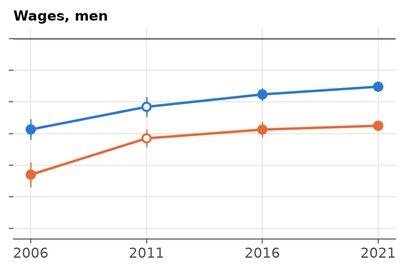
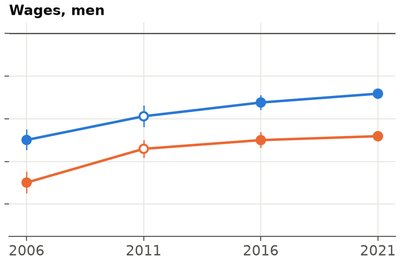
Show the Indigenous income gap in per cent, with the plainer text and updated charts

diff --git a/indigenous-income-gap.html b/indigenous-income-gap.html
@@ -4,16 +4,16 @@
   <meta charset="UTF-8" />
   <meta name="viewport" content="width=device-width, initial-scale=1.0" />
   <meta http-equiv="Content-Security-Policy" content="default-src 'self'; script-src 'self'; style-src 'self'; img-src 'self'; font-src 'self'; connect-src 'none'; object-src 'none'; base-uri 'self'; form-action 'none'" />
-  <title>The Indigenous income gap in Canada across four censuses, and what can be said about it | Ata Malfuzi</title>
-  <meta name="description" content="How the income and wage gap between Indigenous and non-Indigenous Canadians changed from 2006 to 2021. It describes a gap and doesn't identify causes. Python." />
-  <meta property="og:title" content="The Indigenous income gap in Canada across four censuses, and what can be said about it | Ata Malfuzi" />
-  <meta property="og:description" content="How the income and wage gap between Indigenous and non-Indigenous Canadians changed from 2006 to 2021. It describes a gap and doesn't identify causes. Python." />
+  <title>The Indigenous income gap in Canada, 2006 to 2021 | Ata Malfuzi</title>
+  <meta name="description" content="How much lower the incomes and wages of Indigenous people in Canada are than those of other Canadians with the same measured characteristics, and how that changed from 2006 to 2021. It describes a gap and doesn't identify causes. Python." />
+  <meta property="og:title" content="The Indigenous income gap in Canada, 2006 to 2021 | Ata Malfuzi" />
+  <meta property="og:description" content="How much lower the incomes and wages of Indigenous people in Canada are than those of other Canadians with the same measured characteristics, and how that changed from 2006 to 2021. It describes a gap and doesn't identify causes. Python." />
   <meta property="og:type" content="website" />
   <meta property="og:url" content="https://atamalfuzi.github.io/indigenous-income-gap.html" />
   <meta property="og:image" content="https://atamalfuzi.github.io/img/og-indigenous.png" />
   <meta property="og:image:width" content="1200" />
   <meta property="og:image:height" content="630" />
-  <meta property="og:image:alt" content="Four line charts of raw and adjusted gaps in log income and wages for women and men at 2006, 2011, 2016 and 2021, all below zero and mostly narrowing. The chart notes that the people reporting an identity changed across these years." />
+  <meta property="og:image:alt" content="Four line charts of how much lower Indigenous people's total income and wages are, in per cent, for women and men at 2006, 2011, 2016 and 2021. All are below zero and most narrow over time. The chart notes that the people reporting an identity changed across these years." />
   <meta name="twitter:card" content="summary_large_image" />
   <link rel="canonical" href="https://atamalfuzi.github.io/indigenous-income-gap.html" />
   <link rel="icon" href="favicon.svg" type="image/svg+xml" />
@@ -62,16 +62,16 @@
 <article class="project">
   <div class="page-top">
     <a class="back" href="projects.html">Back to portfolio</a>
-    <h1>The Indigenous income gap in Canada across four censuses, and what can be said about it</h1>
-    <p class="lead">I compare the income and wages of Indigenous and non-Indigenous Canadians with the same age group, education, official languages, marital status, area and household size, in four files: the 2006 Census, the 2011 National Household Survey, and the 2016 and 2021 Censuses. The sample is Canadian citizens by birth aged 25 to 64. It started as an assignment in a graduate applied econometrics course at Simon Fraser University, which applied the approach of Pendakur and Pendakur (2011) to 2006.</p>
-    <p class="notes">Personal project: my own analysis of publicly available data. It is not associated with my work for any current or past employer and does not represent their views. This describes a gap and what it is correlated with in these files. It does not identify causes. Nothing here measures the abilities, habits or culture of any group.</p>
+    <h1>The Indigenous income gap in Canada, 2006 to 2021</h1>
+    <p class="lead">How much lower are the incomes and wages of Indigenous people in Canada than those of other Canadians with the same age, education, language, marital status, area and household size? And how did that change? I look at four rounds of Statistics Canada's public census microdata: 2006, 2011, 2016 and 2021, for Canadian citizens by birth aged 25 to 64. The project started as an assignment in a graduate applied econometrics course at Simon Fraser University, which applied the method of Pendakur and Pendakur (2011) to the 2006 Census. I reproduce that work in Python first, then carry it forward.</p>
+    <p class="notes">Personal project: my own analysis of publicly available data. It is not associated with my work for any current or past employer and does not represent their views. The results describe a gap and what goes with it in these files. They don't show what causes it. Nothing here measures the abilities, habits or culture of any group.</p>
     <div class="links-row"><a href="https://github.com/atamalfuzi/canada_indigenous_income_gap" target="_blank">Code on GitHub</a><a href="https://github.com/atamalfuzi/canada_indigenous_income_gap/tree/main/output" target="_blank">All results (CSV)</a></div>
   </div>
 
   <section class="section" id="limit">
-    <h2>The main limit</h2>
-    <p><strong>The people counted as Indigenous changed between these files, so this series is not one group followed over time.</strong> Some people report an Indigenous identity in one census and not in the next. Laws on registered status changed, and so did the question wording and which communities were enumerated. A linked Statistics Canada study found that 24.6% of the 2016 Aboriginal identity population, in its terms, had reported as non-Aboriginal in 2011 (O'Donnell and LaPointe 2019). These files can't link people across years. So a narrower gap could reflect changes in income, changes in who reports, or both. <a href="#identity">Section 5</a> measures the net change.</p>
-    <p>The left-over part of the gap is not a measure of any one cause. It can include characteristics the files don't measure, time worked, location within the broad areas used here, tax treatment, measurement differences and discrimination. These data can't separate them.</p>
+    <h2>The most important caution</h2>
+    <p><strong>The people counted as Indigenous are not the same from one census to the next.</strong> Some people report an Indigenous identity in one census and not in the next, in both directions. The laws on who can be registered changed, and so did the questions and which communities took part. A Statistics Canada study that linked people across censuses found that about one in four people reporting an Aboriginal identity in 2016 had not reported one in 2011 (O'Donnell and LaPointe 2019). The public files can't follow people, so a smaller gap could come from changes in income, from changes in who is counted, or both. <a href="#identity">Section 6</a> measures how big the change is and how much it could matter.</p>
+    <p>The part of the gap that measured characteristics don't account for is not a measure of any one cause. It can include things these files don't measure, such as hours worked, the kind of job, where exactly someone lives, tax treatment, differences in how income is recorded, and discrimination. These data can't tell them apart.</p>
   </section>
 
   <section class="section">
@@ -79,85 +79,135 @@
     <table class="glance">
       <thead><tr><th scope="col">Question</th><th scope="col">Methods</th><th scope="col">Answer</th></tr></thead>
       <tbody>
-        <tr><td>Does the 2006 work reproduce?</td><td data-label="Methods">The assignment's regressions, OLS with robust errors</td><td data-label="Answer">Closely. All 32 coefficients are within 0.35 of a standard error, but the sample differs by 0.7% for a reason I could not trace.</td></tr>
-        <tr><td><a href="#change">How did the gap change?</a></td><td data-label="Methods">Weighted OLS by sex and year, replicate-weight errors</td><td data-label="Answer">For men the adjusted wage gap went from −0.287 to −0.152 log points. For women it went from −0.107 to −0.043, most of it in 2021.</td></tr>
-        <tr><td><a href="#observed">What do observed characteristics account for?</a></td><td data-label="Methods">Oaxaca-Blinder decomposition</td><td data-label="Answer">Roughly a third to a half of the gap among men and roughly 60% or more among women. Education is the largest part.</td></tr>
-        <tr><td><a href="#groups">Who does the average cover?</a></td><td data-label="Methods">Indicators by group</td><td data-label="Answer">Gaps differ widely. They are largest among registered men who are band members.</td></tr>
-        <tr><td><a href="#pandemic">How much is 2021 a pandemic result?</a></td><td data-label="Methods">Total income less pandemic benefits</td><td data-label="Answer">For men, 0.085 of the 0.126 narrowing in total income from 2016 to 2021 goes away when benefits are taken out.</td></tr>
+        <tr><td><a href="#change">How did the gap change?</a></td><td data-label="Methods">Weighted regressions by sex and year</td><td data-label="Answer">It narrowed. With the same characteristics, men's wages went from about 25% lower in 2006 to 14% lower in 2021, and women's from about 10% to 4% lower.</td></tr>
+        <tr><td><a href="#observed">How much do measured characteristics account for?</a></td><td data-label="Methods">Oaxaca-Blinder decomposition</td><td data-label="Answer">Roughly a third to a half of the wage gap among men, and roughly 60% or more among women. Education is the largest part.</td></tr>
+        <tr><td><a href="#groups">Who does the average cover?</a></td><td data-label="Methods">Gaps by group</td><td data-label="Answer">Very different groups. The largest gaps are among registered men who are band members: 39% lower wages in 2006 and 26% in 2021.</td></tr>
+        <tr><td><a href="#pandemic">How much is 2021 a pandemic result?</a></td><td data-label="Methods">Total income less pandemic benefits</td><td data-label="Answer">A good part. Taking benefits out removes about two thirds of the 2016 to 2021 narrowing in men's total income.</td></tr>
+        <tr><td><a href="#reproduce">Does the 2006 assignment reproduce?</a></td><td data-label="Methods">The same regressions in Python</td><td data-label="Answer">Closely, not exactly. All 32 estimates are within 0.35 standard errors, but the sample is 0.7% larger, for a reason I could not trace.</td></tr>
         <tr><td><a href="#identity">Are these the same people over time?</a></td><td data-label="Methods">Counts of the same birth years, and a what-if</td><td data-label="Answer">No. The same birth years count 28% more Indigenous people in 2021 than in 2006, while the comparison group shrinks 4%.</td></tr>
       </tbody>
     </table>
-    <p class="notes">Gaps are in log points, the Indigenous group less the comparison group, so negative means lower. A gap of −0.15 is about 14% lower. The Indigenous group has an Indigenous identity or registered status. Income is from the year before each census.</p>
+    <p class="notes">The Indigenous group is everyone who reported an Indigenous identity (First Nations, Métis or Inuit) or registered status under the Indian Act. The comparison group is everyone else, except people who reported only Indigenous ancestry, who are set aside. Total income is income from all sources, including government transfers; wages are wages and salaries from employment. A gap is how much lower the Indigenous group's typical income is, in per cent. "All people" compares the two groups as they are, and "same characteristics" compares people of the same age group, highest qualification, official language, marital status, area and household size. Each estimate has a margin of error of about 1 to 3 percentage points either way.</p>
   </section>
 
   <section class="section" id="change">
-    <h2>1. How the gap changed</h2>
-    <ul class="tags"><li>Census public use microdata</li><li>Weighted OLS</li><li>Replicate-weight errors</li><li>2006, 2011, 2016, 2021</li></ul>
+    <h2>1. The gap narrowed</h2>
+    <ul class="tags"><li>Census public use microdata</li><li>Weighted regressions</li><li>2006, 2011, 2016, 2021</li></ul>
     <figure>
-      <img src="img/indigenous-gaps.png" srcset="img/indigenous-gaps-800.png 800w, img/indigenous-gaps.png 1600w" sizes="(max-width: 860px) calc(100vw - 2.5rem), 816px" alt="Four line charts of the raw and adjusted gap at 2006, 2011, 2016 and 2021, for total income and wages, women and men. All gaps are below zero and most narrow over time. For women the change comes mostly in 2021. Diamonds show the 2021 adjusted total income gap with pandemic benefits taken out, which is larger. The hollow 2011 points are a voluntary survey." width="1600" height="1312" loading="lazy" />
-      <figcaption>Raw and adjusted gaps by year. Bars are two standard errors. The people reporting an identity changed across these years, so this is not one group followed over time.</figcaption>
+      <img src="img/indigenous-gaps.png" srcset="img/indigenous-gaps-800.png 800w, img/indigenous-gaps.png 1600w" sizes="(max-width: 860px) calc(100vw - 2.5rem), 816px" alt="Four line charts of how much lower Indigenous people's total income and wages are than the comparison group's, in per cent, for women and men at 2006, 2011, 2016 and 2021. One line compares all people and one compares people with the same characteristics. All are below zero and most narrow over time. For women the change comes mostly in 2021. Diamonds show the 2021 total income gap with pandemic benefits taken out, which is larger. The hollow 2011 points are a voluntary survey." width="1600" height="1312" loading="lazy" />
+      <figcaption>Per cent difference from the comparison group. Vertical bars show the margin of error. The people reporting an identity changed across these years, so this is not one group followed over time.</figcaption>
     </figure>
-    <p>Among men, the adjusted wage gap went from −0.287 log points in 2006 to −0.152 in 2021, or from about 25% to about 14% lower. Among women, it went from −0.107 to −0.043, or from about 10% to about 4% lower, most of that in the last step. The direction agrees with Pendakur and Pendakur's later work on the full census files, though their sample, comparison group and start date differ.</p>
+    <p>Among men, the wage gap for people with the same characteristics narrowed by 11 percentage points from 2006 to 2021, and most of that had happened by 2016. Among women it narrowed by 6 points. The change for women from 2006 to 2016 alone is too small to tell apart from no change. For total income, the largest step for both men and women is the last one, which <a href="#pandemic">section 4</a> looks at.</p>
     <table class="glance">
-      <thead><tr><th scope="col">Gap, log points (standard error)</th><th scope="col">2006</th><th scope="col">2011</th><th scope="col">2016</th><th scope="col">2021</th></tr></thead>
+      <thead><tr><th scope="col">Per cent lower than the comparison group</th><th scope="col">2006</th><th scope="col">2011</th><th scope="col">2016</th><th scope="col">2021</th></tr></thead>
       <tbody>
-        <tr><td>Wages, women, adjusted</td><td data-label="2006">−0.107 (0.017)</td><td data-label="2011">−0.074 (0.012)</td><td data-label="2016">−0.091 (0.010)</td><td data-label="2021">−0.043 (0.011)</td></tr>
-        <tr><td>Wages, men, adjusted</td><td data-label="2006">−0.287 (0.016)</td><td data-label="2011">−0.216 (0.016)</td><td data-label="2016">−0.177 (0.011)</td><td data-label="2021">−0.152 (0.007)</td></tr>
-        <tr><td>Total income, women, adjusted</td><td data-label="2006">−0.092 (0.014)</td><td data-label="2011">−0.088 (0.014)</td><td data-label="2016">−0.095 (0.007)</td><td data-label="2021">−0.011 (0.007)</td></tr>
-        <tr><td>Total income, men, adjusted</td><td data-label="2006">−0.377 (0.012)</td><td data-label="2011">−0.308 (0.010)</td><td data-label="2016">−0.284 (0.015)</td><td data-label="2021">−0.158 (0.006)</td></tr>
+        <tr><td>Wages, men, all people</td><td data-label="2006">35%</td><td data-label="2011">27%</td><td data-label="2016">25%</td><td data-label="2021">24%</td></tr>
+        <tr><td>Wages, men, same characteristics</td><td data-label="2006">25%</td><td data-label="2011">19%</td><td data-label="2016">16%</td><td data-label="2021">14%</td></tr>
+        <tr><td>Wages, women, all people</td><td data-label="2006">28%</td><td data-label="2011">21%</td><td data-label="2016">22%</td><td data-label="2021">19%</td></tr>
+        <tr><td>Wages, women, same characteristics</td><td data-label="2006">10%</td><td data-label="2011">7%</td><td data-label="2016">9%</td><td data-label="2021">4%</td></tr>
+        <tr><td>Total income, men, all people</td><td data-label="2006">44%</td><td data-label="2011">37%</td><td data-label="2016">36%</td><td data-label="2021">27%</td></tr>
+        <tr><td>Total income, men, same characteristics</td><td data-label="2006">31%</td><td data-label="2011">27%</td><td data-label="2016">25%</td><td data-label="2021">15%</td></tr>
+        <tr><td>Total income, women, all people</td><td data-label="2006">26%</td><td data-label="2011">24%</td><td data-label="2016">24%</td><td data-label="2021">15%</td></tr>
+        <tr><td>Total income, women, same characteristics</td><td data-label="2006">9%</td><td data-label="2011">8%</td><td data-label="2016">9%</td><td data-label="2021">1%</td></tr>
       </tbody>
     </table>
-    <p>Annual wages combine pay with time worked. Among men working full-time for 49 weeks or more, the adjusted gap is −0.127 in 2006 and −0.063 in 2021. That is a description of two samples. It doesn't show that time worked is a matter of choice, since it also depends on what work is available.</p>
+    <p>Pendakur and Pendakur's later paper, <cite>Indigenous Earnings Convergence</cite>, uses the full census files in a Statistics Canada research centre and finds the same direction. Their sample, comparison group and starting year are different, so the numbers can't be compared one for one.</p>
+    <p><strong>Annual wages mix pay with time worked.</strong> Among people who worked mainly full-time for 49 weeks or more, the gaps are much smaller: for men, 12% lower in 2006 and 6% in 2021; for women, 4% and 2%. So more than half of the men's wage gap is not there among full-year, full-time workers. This compares two groups of people. It doesn't show that working less is a choice, since it also depends on what work is available.</p>
   </section>
 
   <section class="section" id="observed">
-    <h2>2. What observed characteristics account for</h2>
+    <h2>2. What measured characteristics account for</h2>
     <figure>
-      <img src="img/indigenous-decomposition.png" srcset="img/indigenous-decomposition-800.png 800w, img/indigenous-decomposition.png 1600w" sizes="(max-width: 860px) calc(100vw - 2.5rem), 816px" alt="Four panels of stacked bars splitting the raw gap at each census into a part accounted for by measured characteristics and a part left over. The share accounted for runs from 31% to 49% among men and from 64% to 96% among women, using the comparison group's coefficients." width="1600" height="1312" loading="lazy" />
-      <figcaption>The raw gap split with the comparison group's coefficients. The number is the share accounted for. The left-over part isn't a measure of any one cause.</figcaption>
+      <img src="img/indigenous-decomposition.png" srcset="img/indigenous-decomposition-800.png 800w, img/indigenous-decomposition.png 1600w" sizes="(max-width: 860px) calc(100vw - 2.5rem), 816px" alt="Four panels of stacked bars splitting the gap at each census into a part accounted for by measured characteristics and a part left over. The share accounted for runs from 31% to 49% among men and from 64% to 96% among women, using the comparison group's pay patterns." width="1600" height="1312" loading="lazy" />
+      <figcaption>The gap split into the part measured characteristics account for and the part left over. The number is the share accounted for.</figcaption>
     </figure>
-    <p>A decomposition puts the share of the raw wage gap accounted for by measured characteristics at 31% to 54% among men and 62% to 80% among women, depending on the year and whose coefficients are used. Education is the largest part.</p>
+    <p>An Oaxaca-Blinder decomposition asks how much of the gap would remain if the Indigenous group had the same average age, education and other measured characteristics as the comparison group. The answer depends slightly on whose pay patterns are used to value those characteristics, so both are shown.</p>
+    <table class="glance">
+      <thead><tr><th scope="col">Share of the gap characteristics account for</th><th scope="col">2006</th><th scope="col">2011</th><th scope="col">2016</th><th scope="col">2021</th></tr></thead>
+      <tbody>
+        <tr><td>Wages, men, comparison group's pay patterns</td><td data-label="2006">31%</td><td data-label="2011">31%</td><td data-label="2016">37%</td><td data-label="2021">43%</td></tr>
+        <tr><td>Wages, men, Indigenous group's pay patterns</td><td data-label="2006">49%</td><td data-label="2011">41%</td><td data-label="2016">50%</td><td data-label="2021">54%</td></tr>
+        <tr><td>Wages, women, comparison group's</td><td data-label="2006">68%</td><td data-label="2011">69%</td><td data-label="2016">64%</td><td data-label="2021">80%</td></tr>
+        <tr><td>Wages, women, Indigenous group's</td><td data-label="2006">62%</td><td data-label="2011">70%</td><td data-label="2016">66%</td><td data-label="2021">78%</td></tr>
+      </tbody>
+    </table>
     <figure>
-      <img src="img/indigenous-characteristics.png" srcset="img/indigenous-characteristics-800.png 800w, img/indigenous-characteristics.png 1600w" sizes="(max-width: 860px) calc(100vw - 2.5rem), 816px" alt="Four panels of bars showing the part of the raw gap attributed to age, education, language, marital status, area and household size in 2006 and 2021. Education is the largest in every panel, between about −0.09 and −0.16 log points. Area and household size account for less in 2021." width="1600" height="1312" loading="lazy" />
-      <figcaption>The part of the raw gap attributed to each set of characteristics, at the comparison group's coefficients. This is a statistical split and doesn't show a cause.</figcaption>
+      <img src="img/indigenous-characteristics.png" srcset="img/indigenous-characteristics-800.png 800w, img/indigenous-characteristics.png 1600w" sizes="(max-width: 860px) calc(100vw - 2.5rem), 816px" alt="Four panels of bars showing the part of the gap linked to age, education, language, marital status, area and household size in 2006 and 2021. Education is the largest in every panel, at about 0.09 to 0.16 log points, roughly 9% to 15% lower. Area and household size account for less in 2021 than in 2006." width="1600" height="1312" loading="lazy" />
+      <figcaption>The part of the gap linked to each set of characteristics, at the comparison group's pay patterns. This is a statistical split, not a cause.</figcaption>
     </figure>
-    <p>The rest is not a measure of any one cause, and the measured characteristics can themselves reflect earlier disadvantage, including discrimination. The decomposition doesn't say what would happen if any characteristic changed.</p>
+    <p>Education is the largest part in every year, and more than half of the part characteristics account for. Area and household size matter less in 2021 than in 2006. Among men, nearly all of the narrowing in the wage gap is in the part that characteristics don't account for.</p>
+    <p>A characteristic that accounts for part of the gap is not a neutral or settled explanation. Education, where people live, marital status and household size can themselves reflect earlier disadvantage, including discrimination. The decomposition is a way of splitting the numbers, not a prediction of what would happen if any characteristic changed.</p>
   </section>
 
   <section class="section" id="groups">
     <h2>3. The average covers very different groups</h2>
     <figure>
-      <img src="img/indigenous-groups.png" srcset="img/indigenous-groups-800.png 800w, img/indigenous-groups.png 1600w" sizes="(max-width: 860px) calc(100vw - 2.5rem), 816px" alt="Four panels of lines for five groups at each census. Among men, registered band members have the largest gaps in every year, from −0.50 in wages in 2006 to −0.30 in 2021. Among women, that group is close to the others. Inuit women who aren't registered are above zero." width="1600" height="1312" loading="lazy" />
-      <figcaption>Adjusted gap against the comparison group, by group, with all groups in one regression. Standard errors are large for the smaller groups.</figcaption>
+      <img src="img/indigenous-groups.png" srcset="img/indigenous-groups-800.png 800w, img/indigenous-groups.png 1600w" sizes="(max-width: 860px) calc(100vw - 2.5rem), 816px" alt="Four panels of lines for five groups at each census, in per cent difference from the comparison group with the same characteristics. Among men, registered band members have the largest gaps in every year, from 39% lower wages in 2006 to 26% lower in 2021. Among women, that group is close to the others. Inuit women who aren't registered are above zero in every year." width="1600" height="1312" loading="lazy" />
+      <figcaption>Per cent difference from the comparison group with the same characteristics, by group. Margins of error are large for the smaller groups.</figcaption>
     </figure>
-    <p>The largest gaps are among registered men who are band members: −0.50 in wages in 2006 and −0.30 in 2021. The public files have no on-reserve variable, so this is not a statement about reserves. The assignment's labels had suggested it was, and that is corrected here. Many band members live off reserve.</p>
-    <p>Inuit women have a positive gap in all years. The area control does not separate the North, so this isn't a like-for-like comparison of places.</p>
+    <table class="glance">
+      <thead><tr><th scope="col">Wages, same characteristics, per cent difference</th><th scope="col">Women 2006</th><th scope="col">Women 2021</th><th scope="col">Men 2006</th><th scope="col">Men 2021</th></tr></thead>
+      <tbody>
+        <tr><td>Registered, member of a First Nation or band</td><td data-label="Women 2006">−10%</td><td data-label="Women 2021">−6%</td><td data-label="Men 2006">−39%</td><td data-label="Men 2021">−26%</td></tr>
+        <tr><td>Registered, not a band member</td><td data-label="Women 2006">−14%</td><td data-label="Women 2021">+1%</td><td data-label="Men 2006">−16%</td><td data-label="Men 2021">−6%</td></tr>
+        <tr><td>First Nations, not registered</td><td data-label="Women 2006">−14%</td><td data-label="Women 2021">−8%</td><td data-label="Men 2006">−13%</td><td data-label="Men 2021">−11%</td></tr>
+        <tr><td>Métis, not registered</td><td data-label="Women 2006">−11%</td><td data-label="Women 2021">−3%</td><td data-label="Men 2006">−8%</td><td data-label="Men 2021">−2%</td></tr>
+        <tr><td>Inuit, not registered</td><td data-label="Women 2006">+23%</td><td data-label="Women 2021">+6%</td><td data-label="Men 2006">−18%</td><td data-label="Men 2021">−16%</td></tr>
+      </tbody>
+    </table>
+    <p>Each group is compared with the same comparison group. The groups other than Métis and registered band members are small, with margins of error of about 4 to 25 points. Inuit women's incomes are higher than the comparison group's in every year; the area measure doesn't separate the North, so this isn't a comparison of people in the same places.</p>
+    <p><strong>Band membership is not the same as living on reserve.</strong> The public files have no on-reserve measure, and many band members live off reserve. The original assignment had labelled these groups as if they were about reserves, and that is corrected here. Pendakur and Pendakur's later paper, which can see where people live, finds much less narrowing for registered people living on reserve, so the narrowing among band members here may come mostly from those living off reserve.</p>
   </section>
 
   <section class="section" id="pandemic">
     <h2>4. 2021 and the pandemic</h2>
-    <p>Income in the 2021 file is from 2020 and includes pandemic benefits, which more Indigenous people received. Taking them out moves the adjusted total income gap for men from −0.158 to −0.243 and for women from −0.011 to −0.060, so total income in 2021 should not be read as a new level. The wage series is the better guide to the trend, though 2020 was also a disrupted year for work.</p>
+    <p>Income in the 2021 Census is from 2020 and includes federal pandemic benefits such as CERB, which more Indigenous people received: 38.7% of Indigenous women and 37.6% of Indigenous men in this sample, against 29.1% and 28.5% in the comparison group.</p>
+    <table class="glance">
+      <thead><tr><th scope="col">Total income, same characteristics, per cent lower</th><th scope="col">2016</th><th scope="col">2021</th><th scope="col">2021 without benefits</th></tr></thead>
+      <tbody>
+        <tr><td>Women</td><td data-label="2016">9%</td><td data-label="2021">1%</td><td data-label="2021 without benefits">6%</td></tr>
+        <tr><td>Men</td><td data-label="2016">25%</td><td data-label="2021">15%</td><td data-label="2021 without benefits">22%</td></tr>
+        <tr><td>Registered men who are band members</td><td data-label="2016">44%</td><td data-label="2021">27%</td><td data-label="2021 without benefits">38%</td></tr>
+      </tbody>
+    </table>
+    <p>Taking the benefits out removes about two thirds of the narrowing in men's total income from 2016 to 2021, and about 60% of the narrowing in women's. So the 2021 total income figures should not be read as a new normal. Wages don't include benefits and are a better guide to the trend, though 2020 was a disrupted year for work too.</p>
+  </section>
+
+  <section class="section" id="reproduce">
+    <h2>5. Reproducing the 2006 assignment</h2>
+    <p>The assignment ran regressions of log total income and log wages, separately for women and men. The Python version follows the same steps, and all 32 group estimates are within 0.35 standard errors of the assignment's, with none changing sign. The samples differ by about 2,500 people, 0.7%. The assignment used a copy of the file converted through R that I no longer have, and dropping the highest incomes doesn't reproduce its numbers, so I don't know the cause. The code here reads Statistics Canada's file directly.</p>
+    <p>To compare across years, the model uses only variables that exist in every census. On 2006 data, those changes move the group estimates by 0.053 log points at most.</p>
   </section>
 
   <section class="section" id="identity">
-    <h2>5. Whether these are the same people</h2>
+    <h2>6. Whether these are the same people</h2>
     <figure>
       <img src="img/indigenous-identity.png" srcset="img/indigenous-identity-800.png 800w, img/indigenous-identity.png 1600w" sizes="(max-width: 860px) calc(100vw - 2.5rem), 816px" alt="Line chart of weighted counts of the same birth years relative to 2006. By 2021 the comparison group is at 0.96 and the Indigenous group at 1.28: First Nations not registered 1.85, Métis not registered 1.51, Inuit not registered 1.12 and registered 1.09." width="1600" height="896" loading="lazy" />
-      <figcaption>People born in Canada and aged 25 to 44 in 2006, counted again at each census. A group followed through time should shrink a little.</figcaption>
+      <figcaption>People born in Canada and aged 25 to 44 in 2006, counted again at each census. A group followed through time should shrink a little, as the comparison group does.</figcaption>
     </figure>
-    <p>People aged 25 to 44 in 2006 are counted again at each later census. The comparison group shrinks by 4% by 2021, while the Indigenous group in the same birth years grows by 28%. Changes in reporting, law and coverage can't be separated here.</p>
-    <p>If every net addition had the comparison group's income, the wage gap among men in these birth years would still narrow, from −0.336 to −0.187, and among women from −0.110 to −0.063. This uses net change only and is not a true bound: movement in and out is much larger than the net, and nothing is known here about the income of those who stopped reporting.</p>
+    <p>By 2021, about a quarter of the Indigenous group in these birth years was not counted as Indigenous in 2006. Some of the growth in registered status follows changes in the law. The communities taking part also changed. Statistics Canada says these influences can't be separated.</p>
+    <p>The gap within these same birth years narrowed too. A simple what-if gives a sense of how much changed reporting could matter: suppose everyone added to the group since 2006 had the comparison group's income.</p>
+    <table class="glance">
+      <thead><tr><th scope="col">Same birth years, same characteristics, per cent lower</th><th scope="col">2006</th><th scope="col">2021</th><th scope="col">2021 in the what-if</th></tr></thead>
+      <tbody>
+        <tr><td>Wages, men</td><td data-label="2006">29%</td><td data-label="2021">13%</td><td data-label="2021 in the what-if">17%</td></tr>
+        <tr><td>Wages, women</td><td data-label="2006">10%</td><td data-label="2021">5%</td><td data-label="2021 in the what-if">6%</td></tr>
+        <tr><td>Total income, men</td><td data-label="2006">33%</td><td data-label="2021">15%</td><td data-label="2021 in the what-if">20%</td></tr>
+        <tr><td>Total income, women</td><td data-label="2006">6%</td><td data-label="2021">6%</td><td data-label="2021 in the what-if">7%</td></tr>
+      </tbody>
+    </table>
+    <p>Even then the men's wage gap narrows, from 29% to 17%. This is only a rough check. It uses the net change, while many more people move in and out than the net suggests. It says nothing about the people who stopped reporting, whose incomes can't be seen. And gaps change with age, so these rows mix getting older with change over time.</p>
   </section>
 
   <section class="section">
-    <h2>Other limits</h2>
+    <h2>Other cautions</h2>
     <ul>
-      <li>2011 is a different kind of source. The National Household Survey was voluntary, with a final response rate of 68.6%, against 95.7% for the 2021 long form.</li>
-      <li>Coverage of reserves changes. Incompletely enumerated reserves and settlements number 22 in 2006, 36 in 2011, 14 in 2016 and 63 in 2021, and these files can't restrict to communities enumerated in every year.</li>
-      <li>Income sources changed, from the form or tax records in 2006 and 2011 to administrative records alone in 2016 and 2021.</li>
-      <li>People with no income or wages are left out, and the share with $1,000 or more of wages is lower in the Indigenous group. That difference did not narrow.</li>
-      <li>The area control is coarse, with no province, North or reserve control.</li>
-      <li>"Registered" stands for Statistics Canada's variable "Registered or Treaty Indian status", a legal term under the Indian Act.</li>
+      <li>2011 is a different kind of survey. The National Household Survey was voluntary, with 68.6% of households responding, against 95.7% for the 2021 long form. It is shown with a hollow point in the charts.</li>
+      <li>Coverage of reserves changes. The number of reserves and settlements not fully counted was 22 in 2006, 36 in 2011, 14 in 2016 and 63 in 2021, and the public files can't restrict to communities counted in every year.</li>
+      <li>Where income data come from changed, from the form or tax records in 2006 and 2011 to tax and benefit records alone in 2016 and 2021.</li>
+      <li>People without income or wages are left out. The share of Indigenous people with at least $1,000 in wages is lower than in the comparison group, and that difference did not shrink.</li>
+      <li>The area measure is broad, with no province, North or reserve breakdown.</li>
+      <li>"Registered" stands for Statistics Canada's variable "Registered or Treaty Indian status", a legal term under the Indian Act. Older sources say "Aboriginal", which appears here only in their titles and findings.</li>
     </ul>
   </section>
 

diff --git a/projects.html b/projects.html
@@ -113,9 +113,9 @@
     <li>
       <a href="indigenous-income-gap.html" tabindex="-1" aria-hidden="true"><img src="img/thumb-indigenous.jpg" srcset="img/thumb-indigenous.jpg 400w, img/thumb-indigenous-640.jpg 640w" sizes="(max-width: 560px) calc(100vw - 2.5rem), 184px" alt="" width="400" height="267" /></a>
       <div>
-        <h3><a href="indigenous-income-gap.html">The Indigenous income gap in Canada across four censuses, and what can be said about it</a></h3>
+        <h3><a href="indigenous-income-gap.html">The Indigenous income gap in Canada, 2006 to 2021</a></h3>
         <p class="meta">Open data analysis in Python, 2026</p>
-        <p>An extension of a graduate econometrics assignment from the 2006 Census to 2021, on Statistics Canada's public microdata. Among people with the same measured characteristics, the wage gap narrowed from about 25% to about 14% for men and from about 10% to about 4% for women. The results describe a gap and don't identify causes. The people counted as Indigenous also changed across these files, so this is not one group followed over time, and the write-up measures how far that could matter.</p>
+        <p>A graduate econometrics assignment from Simon Fraser University, carried forward from the 2006 Census to 2021 with Statistics Canada's public microdata. Comparing people with the same age, education and other measured characteristics, Indigenous men's wages went from about 25% lower to about 14% lower, and Indigenous women's from about 10% lower to about 4% lower. The results describe a gap and don't identify causes. The people counted as Indigenous also changed between censuses, so this is not one group followed over time, and the write-up measures how much that could matter.</p>
         <div class="links-row"><a href="indigenous-income-gap.html">Project page</a><a href="https://github.com/atamalfuzi/canada_indigenous_income_gap" target="_blank">Code</a></div>
       </div>
     </li>
